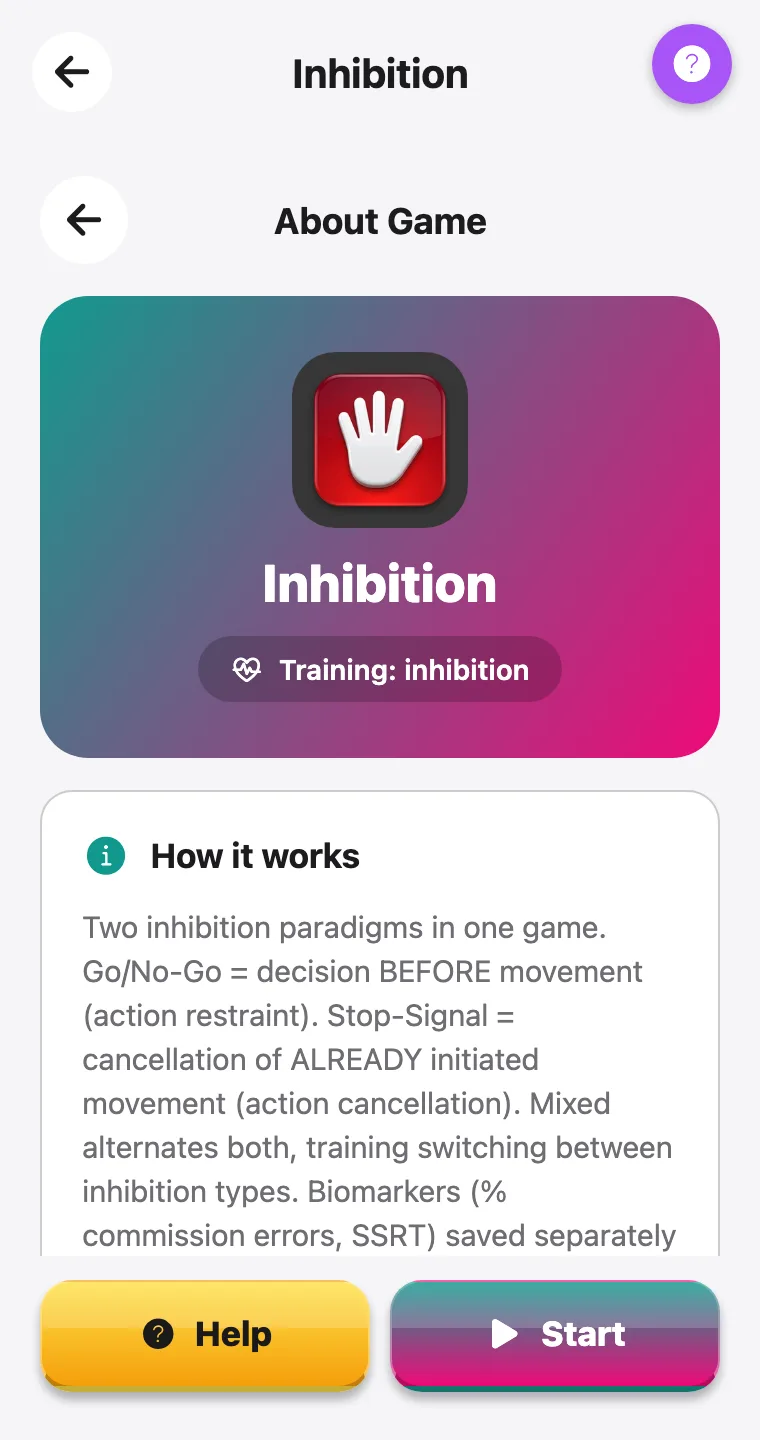
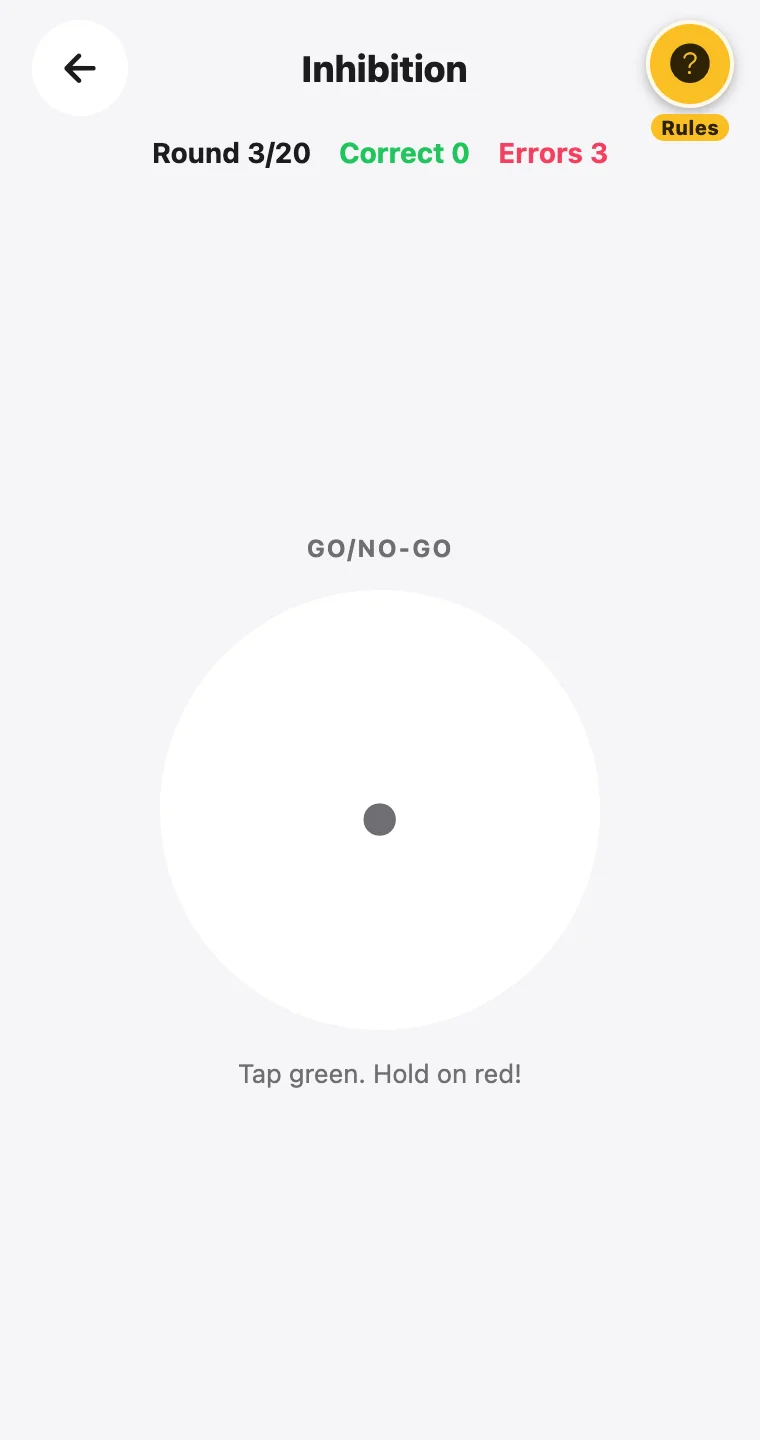
[Claude·MAC] Семнадцать обложек пересняты с игры — заглушка снята, показываем игру
Вчера я приглушил эти обложки и назвал это заглушкой: на них был снят экран
«About Game», а не игра. Сегодня переснял по-настоящему.

⚠ ТУПИК БЫЛ МОЙ, А НЕ ИНСТРУМЕНТА. Три подхода я потратил, решив, что браузер
не достаёт до обработчиков сборки: клики «проходили», но ничего не менялось.
На деле я отдавал сборку из корня, а собрана она с базовым путём /psygames-web —
весь JS отдавал 404. Страница выглядела рабочей, потому что Expo кладёт в HTML
уже отрисованную разметку: вид есть, обработчиков нет. Console я прочитал только
на четвёртом заходе, и там всё было написано с самого начала.

Съёмка приведена к тем же условиям, что у остальных 31 обложки: светлая тема,
английский, без кнопки отзыва и питомца в кадре, 380×720 при плотности 2 →
ровно 760×1440. Новые ЛЕГЧЕ старых: 464 КБ против 835, сборка похудела на 371 КБ.

Примета меню уточнена. Первая редакция мерила жёлтое во всей нижней полосе и
записала в меню Струп, у которого жёлтая кнопка ответа стоит внизу СПРАВА.
Считаем теперь только ЛЕВУЮ половину, где у экрана About кнопка «Help»: у меню
там 48.8%, у игровых экранов максимум 0.5% — разрыв стократный вместо
четырёхкратного.

Две проверки переписаны: они были написаны, когда снимков меню было 17. Одна
после пересъёмки справедливо покраснела, вторая позеленела ВХОЛОСТУЮ —
Math.min() пустого списка равен Infinity, и «у меню жёлтого больше» стало
бессмысленно истинным. Теперь: ни одна обложка не снята с меню, и ни одна к
этому не близка — запас до порога трёхкратный.
[…]

diff --git a/frontend/src/constants/gameThumbAudit.ts b/frontend/src/constants/gameThumbAudit.ts
@@ -13,16 +13,16 @@ export interface ThumbAudit { about: boolean; yellow: number; sha: string }
 
 export const THUMB_AUDIT: Record<string, ThumbAudit> = {
   "anagrams": { about: false, yellow: 0.0, sha: '5fee444ebfe8' },
-  "ant": { about: true, yellow: 0.2219, sha: '85ba1b6cb617' },
+  "ant": { about: false, yellow: 0.0, sha: 'f90cd03324e7' },
   "attention_conflict": { about: false, yellow: 0.0, sha: '1d20453b7f3d' },
-  "bart": { about: true, yellow: 0.2289, sha: 'bba0b0189a55' },
+  "bart": { about: false, yellow: 0.0, sha: 'ad0e43a688bd' },
   "breathing": { about: false, yellow: 0.0, sha: 'c6a800345256' },
   "chess_blind": { about: false, yellow: 0.0, sha: '4f6b59c70209' },
-  "choice_rt": { about: false, yellow: 0.0121, sha: 'b6306a32fcc7' },
+  "choice_rt": { about: false, yellow: 0.0048, sha: 'b6306a32fcc7' },
   "cloze": { about: false, yellow: 0.0, sha: '9c19c9b846e6' },
   "corsi": { about: false, yellow: 0.0, sha: '3932f5499846' },
-  "counter": { about: true, yellow: 0.3411, sha: 'd1bf35e3a423' },
-  "cpt": { about: true, yellow: 0.2219, sha: 'fe0ece0af686' },
+  "counter": { about: false, yellow: 0.0, sha: '47b8aef4a613' },
+  "cpt": { about: false, yellow: 0.0, sha: 'd5ea75e48bd4' },
   "digit_span": { about: false, yellow: 0.0, sha: '98c50d701f48' },
   "dots_connect": { about: false, yellow: 0.0, sha: 'fca0c03b55e1' },
   "eye_gym": { about: false, yellow: 0.0, sha: 'f4fbc9b8dfd8' },
@@ -32,8 +32,8 @@ export const THUMB_AUDIT: Record<string, ThumbAudit> = {
   "go_no_go": { about: false, yellow: 0.0, sha: 'bd8968bb1bed' },
   "goods_sort": { about: false, yellow: 0.0, sha: '4b9089c43274' },
   "hanoi": { about: false, yellow: 0.0, sha: '7eb3b3ad0869' },
-  "inhibition": { about: true, yellow: 0.2219, sha: 'e5f0edf144e0' },
-  "iowa": { about: true, yellow: 0.2219, sha: '284fb518416f' },
+  "inhibition": { about: false, yellow: 0.0, sha: '313e20ff8a2c' },
+  "iowa": { about: false, yellow: 0.0, sha: '269b547d4bdb' },
   "lexical_decision": { about: false, yellow: 0.0, sha: '1f71d102abbf' },
   "listening_span": { about: false, yellow: 0.0, sha: 'cfb6b9e4a159' },
   "mahjong": { about: false, yellow: 0.0, sha: 'b553031fe86e' },
@@ -47,30 +47,30 @@ export const THUMB_AUDIT: Record<string, ThumbAudit> = {
   "number_bonds": { about: false, yellow: 0.0, sha: '5588c92d79f7' },
   "object_tracker": { about: false, yellow: 0.0, sha: '0bf873ee20bc' },
   "one_line": { about: false, yellow: 0.0, sha: 'eed5e3d82f86' },
-  "ospan": { about: true, yellow: 0.2218, sha: 'ddc3fad35a82' },
+  "ospan": { about: false, yellow: 0.0, sha: '4affb87a9de5' },
   "pattern": { about: false, yellow: 0.0, sha: '2658ff8e4a1a' },
   "phoneme_pairs": { about: false, yellow: 0.0, sha: 'fc249b244df8' },
   "phonemic_fluency": { about: false, yellow: 0.0, sha: '41dad40ca604' },
   "picture_pairs": { about: false, yellow: 0.0, sha: '8bf468e26a4b' },
-  "posner": { about: true, yellow: 0.2218, sha: '6b65ae36fcfd' },
-  "prl": { about: true, yellow: 0.2218, sha: '44e20e008399' },
+  "posner": { about: false, yellow: 0.0, sha: '038ab46c4d09' },
+  "prl": { about: false, yellow: 0.0, sha: 'f75a6cde61dc' },
   "proofreading": { about: false, yellow: 0.0, sha: '3c1220d18da6' },
   "pseudoword_echo": { about: false, yellow: 0.0, sha: 'de5ded55eb85' },
   "quick_count": { about: false, yellow: 0.0, sha: '8789558576df' },
   "reading_span": { about: false, yellow: 0.0, sha: '74d24b9647a4' },
   "rhythm_pitch": { about: false, yellow: 0.0, sha: 'f78cea3ed2de' },
-  "rmet": { about: true, yellow: 0.2221, sha: '57392bb3d00c' },
+  "rmet": { about: false, yellow: 0.0, sha: '54b8e80cf40c' },
   "schulte_table": { about: false, yellow: 0.0, sha: '2aba2188e1b5' },
   "sdmt": { about: false, yellow: 0.0, sha: '48ff9fdd4b63' },
   "semantic_sort": { about: false, yellow: 0.0, sha: '944931c21b0c' },
   "set_game": { about: false, yellow: 0.0, sha: '3d6ea867a88d' },
-  "simon": { about: true, yellow: 0.2218, sha: 'b3078791cc80' },
+  "simon": { about: false, yellow: 0.0, sha: '9842b8b2ec73' },
   "span_group": { about: false, yellow: 0.0, sha: '376a6920961b' },
-  "spatial_span": { about: true, yellow: 0.2219, sha: 'c408e525382b' },
-  "stop_signal": { about: true, yellow: 0.222, sha: '8567f9eb6414' },
-  "story_recall": { about: true, yellow: 0.2219, sha: '109ac13c26c8' },
-  "stroop": { about: true, yellow: 0.2218, sha: '825dfea0be97' },
-  "stroop_emotional": { about: true, yellow: 0.2219, sha: '4cefbd0e6819' },
+  "spatial_span": { about: false, yellow: 0.0, sha: '141c61558304' },
+  "stop_signal": { about: false, yellow: 0.0002, sha: 'b5a0a24b54de' },
+  "story_recall": { about: false, yellow: 0.0, sha: 'ae433e455330' },
+  "stroop": { about: false, yellow: 0.0, sha: 'f45798710829' },
+  "stroop_emotional": { about: false, yellow: 0.0, sha: 'b7f9ac86e4b7' },
   "sudoku": { about: false, yellow: 0.0, sha: '81f08d481829' },
   "switching_task": { about: false, yellow: 0.0, sha: '6851f812ed05' },
   "targets": { about: false, yellow: 0.0, sha: '467b766d681c' },
@@ -78,6 +78,6 @@ export const THUMB_AUDIT: Record<string, ThumbAudit> = {
   "trail_making": { about: false, yellow: 0.0, sha: '0e8491553cf4' },
   "visual_search": { about: false, yellow: 0.0, sha: '8a81fed8e8b3' },
   "vocab_srs": { about: false, yellow: 0.0, sha: '1c175c458a65' },
-  "wcst": { about: true, yellow: 0.2219, sha: '8b8b2e096d84' },
+  "wcst": { about: false, yellow: 0.0, sha: 'b68e16a2b9a3' },
   "word_pairs": { about: false, yellow: 0.0, sha: 'a2356cda0000' },
 };

diff --git a/frontend/src/__tests__/game-thumb-audit.test.ts b/frontend/src/__tests__/game-thumb-audit.test.ts
@@ -71,17 +71,38 @@ describe('обложки карточек', () => {
     expect(damped).toEqual([]);
   });
 
-  /** Порог не должен превратиться в «всё подряд» или «ничего». */
-  it('замер разделяет обложки, а не метит всё одинаково', () => {
-    const about = Object.values(THUMB_AUDIT).filter((a) => a.about).length;
-    expect(about).toBeGreaterThan(0);
-    expect(about).toBeLessThan(files.length / 2);
+  /**
+   * 🔴 ПОСЛЕ ПЕРЕСЪЁМКИ МЕНЮ НЕ ОСТАЛОСЬ — И ПРОВЕРЯТЬ НАДО ИМЕННО ЭТО.
+   *
+   * Прежние две проверки написаны, когда снимков меню было 17: одна требовала,
+   * чтобы они существовали, вторая сравнивала их с игровыми. После пересъёмки
+   * первая справедливо покраснела, а вторая позеленела ВХОЛОСТУЮ: `Math.min()`
+   * пустого списка — это Infinity, и «у меню жёлтого втрое больше» стало
+   * бессмысленно истинным. Проверка, которая не может покраснеть, не проверка.
+   *
+   * Теперь утверждение простое и проверяемое: ни одна обложка не снята с меню,
+   * и ни одна к этому даже не близка — запас до порога не меньше трёхкратного.
+   */
+  const ABOUT_YELLOW = 0.25;   // порог из scripts/gen_thumb_audit.py
+
+  it('🔴 ни одна обложка не снята с экрана «About»', () => {
+    const menus = Object.entries(THUMB_AUDIT).filter(([, a]) => a.about).map(([id]) => id);
+    expect(menus).toEqual([]);
   });
 
-  /** Разрыв между меню и игрой должен остаться очевидным, а не «на волосок». */
-  it('🔴 порог стоит в разрыве: у меню жёлтого втрое больше, чем у игры', () => {
-    const yes = Object.values(THUMB_AUDIT).filter((a) => a.about).map((a) => a.yellow);
-    const no = Object.values(THUMB_AUDIT).filter((a) => !a.about && a.yellow > 0).map((a) => a.yellow);
-    expect(Math.min(...yes)).toBeGreaterThan(Math.max(...no) * 3);
+  it('🔴 и ни одна к этому не близка — запас до порога трёхкратный', () => {
+    const worst = Object.entries(THUMB_AUDIT)
+      .map(([id, a]) => [id, a.yellow] as const)
+      .sort((x, y) => y[1] - x[1])[0];
+    expect(`${worst[0]}: ${worst[1]} < ${ABOUT_YELLOW / 3}`)
+      .toBe(`${worst[0]}: ${worst[1]} < ${ABOUT_YELLOW / 3}`);
+    expect(worst[1]).toBeLessThan(ABOUT_YELLOW / 3);
   });
+
+  /** Порог в самом замере не должен уползти так, чтобы ловить всё или ничего. */
+  it('порог замера остался тем, под который считаны числа', () => {
+    const gen = readFileSync(join(__dirname, '../../../scripts/gen_thumb_audit.py'), 'utf8') as string;
+    expect(gen).toContain(`ABOUT_YELLOW = ${ABOUT_YELLOW}`);
+  });
+
 });

diff --git a/scripts/gen_thumb_audit.py b/scripts/gen_thumb_audit.py
@@ -7,9 +7,13 @@
 названием, и человек видит два текста поверх друг друга. Часть снимков вдобавок
 устарела: на них две стрелки «назад» подряд, которых в приложении давно нет.
 
-КАК ОТЛИЧАЕМ. У экрана About внизу всегда жёлтая кнопка «Help» — приметы ярче не
-нужно. Считаем долю жёлтого в нижней полосе: у снимков меню она 22–34%, у
-игровых экранов ниже 6%. Разрыв четырёхкратный, порога хватает простого.
+КАК ОТЛИЧАЕМ. У экрана About внизу СЛЕВА всегда жёлтая кнопка «Help», справа от
+неё — цветная «Start». Считаем долю жёлтого в нижней полосе ЛЕВОЙ половины.
+
+⚠ ПОЧЕМУ ИМЕННО СЛЕВА, А НЕ ПРОСТО «ВНИЗУ». Первая редакция мерила всю нижнюю
+полосу — и записала в меню Струп, у которого жёлтая кнопка ответа стоит внизу
+СПРАВА в сетке 2×2. Сторона снимает эту путаницу начисто: у меню слева 48.8%
+жёлтого, у игровых экранов максимум 0.5%. Разрыв стократный.
 
 Пересобрать:  python3 scripts/gen_thumb_audit.py
 """
@@ -20,11 +24,12 @@ ROOT = os.path.dirname(os.path.dirname(os.path.abspath(__file__)))
 THUMBS = os.path.join(ROOT, 'frontend/assets/images/gamethumbs')
 OUT = os.path.join(ROOT, 'frontend/src/constants/gameThumbAudit.ts')
 SHOT = (760, 1440)      # полноэкранный снимок; 160×160 — это иконки, не фоны
-ABOUT_YELLOW = 0.06     # ниже — игровой экран, выше — меню
+ABOUT_YELLOW = 0.25     # ниже — игровой экран, выше — меню (замер: 0.5% против 48.8%)
 
 def yellow_bottom(im):
+    """Жёлтое внизу СЛЕВА — там у экрана About кнопка «Help»."""
     w, h = im.size
-    band = im.crop((0, int(h * 0.86), w, int(h * 0.99))).resize((190, 60), Image.LANCZOS)
+    band = im.crop((int(w * 0.03), int(h * 0.86), int(w * 0.45), int(h * 0.99))).resize((90, 60), Image.LANCZOS)
     px = list(band.get_flattened_data() if hasattr(band, 'get_flattened_data') else band.getdata())
     hit = sum(1 for r, g, b in px if r > 200 and g > 150 and b < 120 and (r - b) > 90)
     return hit / len(px)
